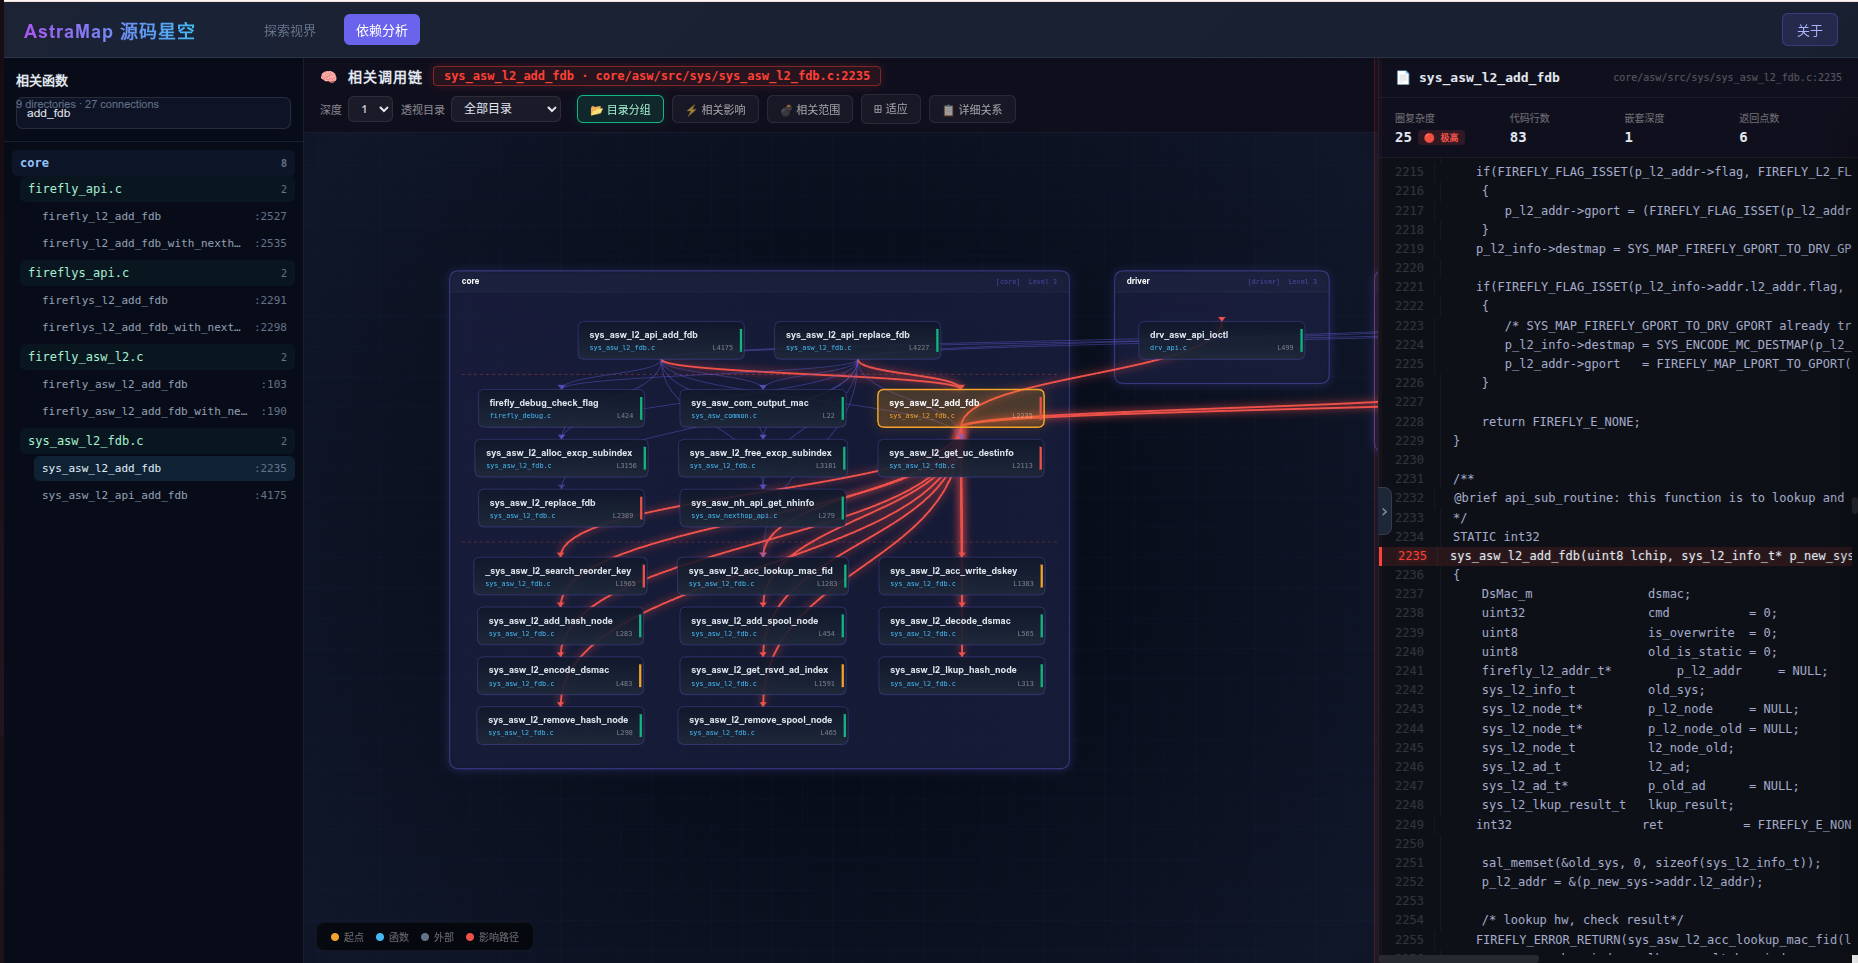
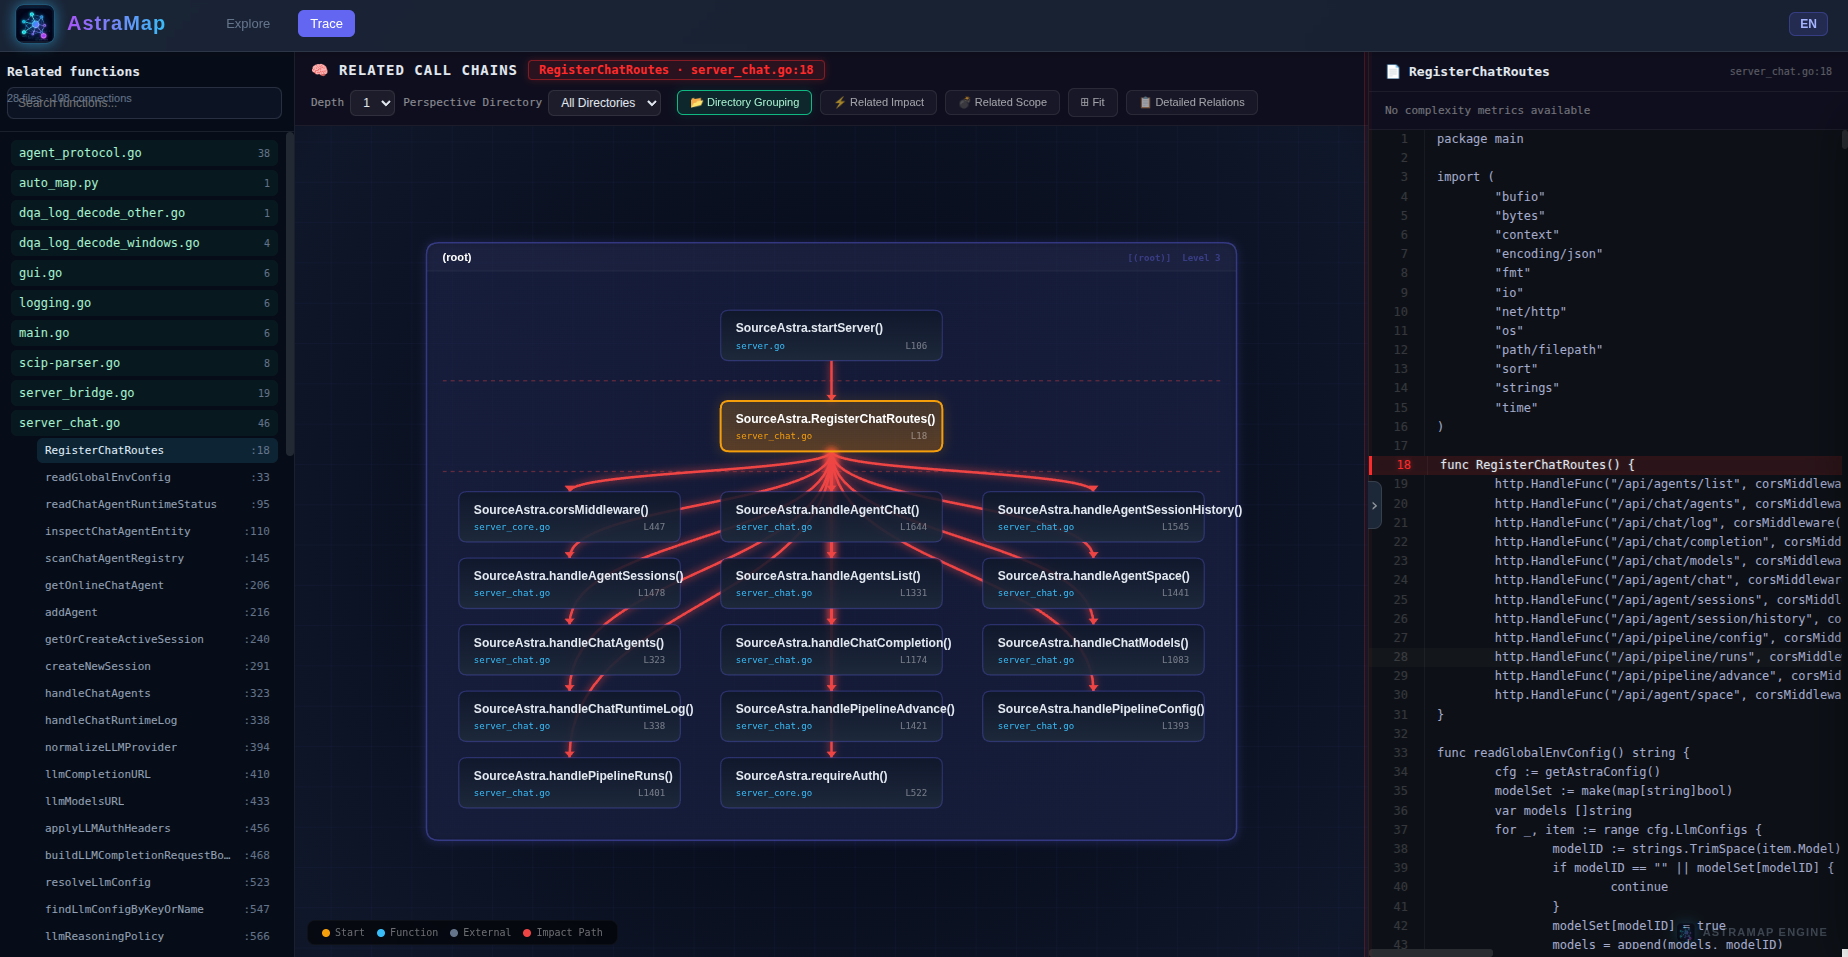
release: open-source release v0.1.0

diff --git a/README_EN.md b/README_EN.md
@@ -60,7 +60,7 @@ astra-code-map does not replace source code or language toolchains. It provides 
 
 Start from a project, directory, file, or symbol and move from global structure to local implementation.
 
-<img src="pic/view.png" alt="astra-code-map Explore View">
+<img src="pic/explore.png" alt="astra-code-map Explore View">
 
 ### Dependency View
 
